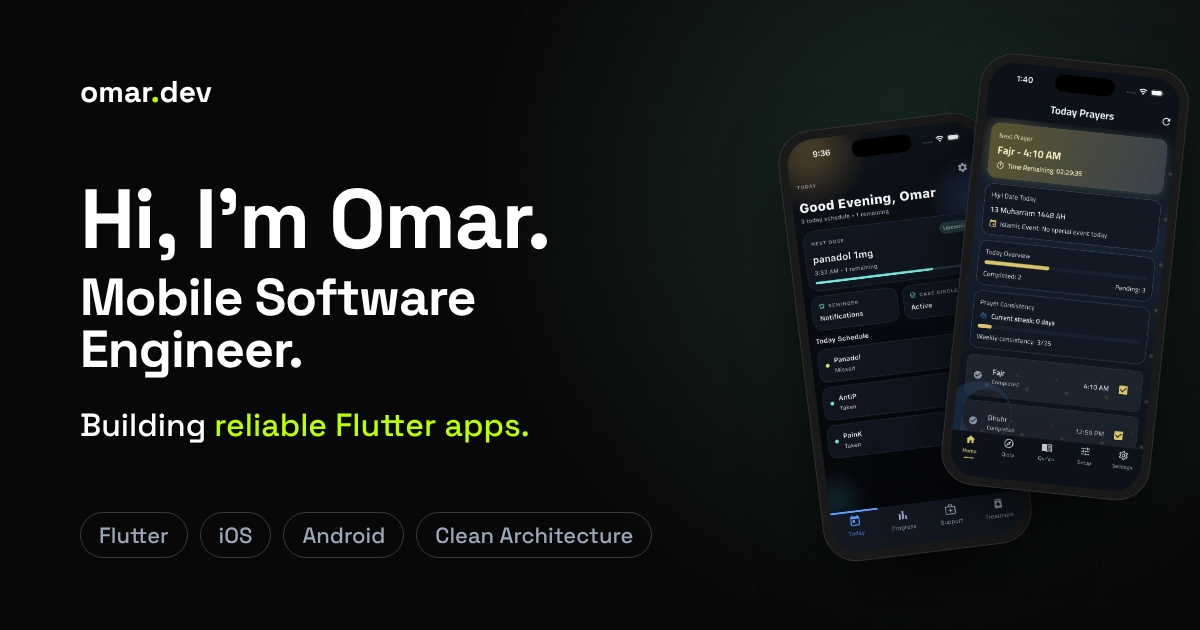
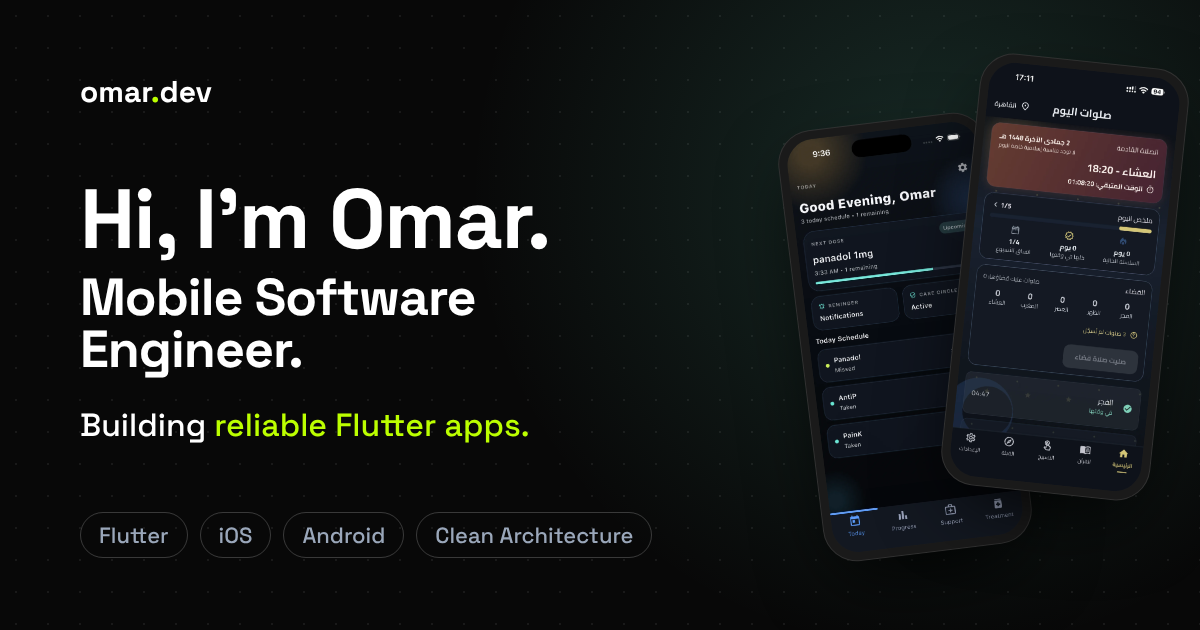
Muslim Assistant: new screenshots, Tasbih screen replaces Settings
Fresh light/dark screenshots of the current app (Home, Qibla, Quran,
Tasbih), renamed from salati_* to muslim_assistant_*. Settings is swapped
for Tasbih with a tap icon, subtitles describe what each screen now
shows, and the hero and share image use the new Home screen.

Claude-Session: https://claude.ai/code/session_01CkUq325ZFgYzPWVTuuyd6D

Changed region(s): [[0.8017, 0.1206, 0.9867, 0.5429], [0.8017, 0.4524, 0.9558, 0.754], [0.8017, 0.573, 0.8633, 0.6333]]

diff --git a/src/data/projects.ts b/src/data/projects.ts
@@ -117,7 +117,7 @@ const projectList: Project[] = [
     ],
     contributions: [
       "Engineered background-safe scheduling for prayer reminders.",
-      "Integrated Quran, Qibla, and settings into one cohesive flow.",
+      "Integrated Quran, Qibla, and tasbih into one cohesive flow.",
       "Shaped interaction model for calm and focused daily usage.",
     ],
     role: "Creator & Lead Flutter Developer",
@@ -139,31 +139,30 @@ const projectList: Project[] = [
         title: "Home",
         icon: "home",
         subtitle:
-          "Prayer overview, next prayer countdown, and reliable reminders.",
-        dark: "/images/salati_home_dark.webp",
-        light: "/images/salati_home_light.webp",
+          "Next prayer countdown, Hijri date, daily summary, and missed-prayer tracking.",
+        dark: "/images/muslim_assistant_home_dark.webp",
+        light: "/images/muslim_assistant_home_light.webp",
       },
       {
         title: "Qibla",
         icon: "compass",
-        subtitle: "Compass guidance designed for stable everyday use.",
-        dark: "/images/salati_compass_dark.webp",
-        light: "/images/salati_compass_light.webp",
+        subtitle: "Compass that confirms when you are facing the Kaaba.",
+        dark: "/images/muslim_assistant_qibla_dark.webp",
+        light: "/images/muslim_assistant_qibla_light.webp",
       },
       {
         title: "Quran",
         icon: "book",
-        subtitle: "Quick surah access with calm reading-focused navigation.",
-        dark: "/images/salati_quran.webp",
-        light: "/images/salati_quran_light.webp",
+        subtitle: "Search, every surah, and continue reading where you left off.",
+        dark: "/images/muslim_assistant_quran_dark.webp",
+        light: "/images/muslim_assistant_quran_light.webp",
       },
       {
-        title: "Settings",
-        icon: "settings",
-        subtitle:
-          "Language, notifications, and prayer preferences in one place.",
-        dark: "/images/salati_setting_dark.webp",
-        light: "/images/salati_setting_light.webp",
+        title: "Tasbih",
+        icon: "tap",
+        subtitle: "Tap anywhere to count, swipe to move between adhkar.",
+        dark: "/images/muslim_assistant_tasbih_dark.webp",
+        light: "/images/muslim_assistant_tasbih_light.webp",
       },
     ],
   },

diff --git a/src/components/icons.tsx b/src/components/icons.tsx
@@ -8,6 +8,7 @@ export type IconName =
   | "compass"
   | "book"
   | "settings"
+  | "tap"
   | "moon"
   | "sun";
 
@@ -51,6 +52,15 @@ const paths: Record<IconName, ReactElement> = {
     <>
       <circle cx="12" cy="12" r="3" />
       <path d="M19.4 15a1.7 1.7 0 0 0 .3 1.8l.1.1a2 2 0 1 1-2.8 2.8l-.1-.1a1.7 1.7 0 0 0-1.8-.3 1.7 1.7 0 0 0-1 1.5V21a2 2 0 1 1-4 0v-.1a1.7 1.7 0 0 0-1.1-1.5 1.7 1.7 0 0 0-1.8.3l-.1.1a2 2 0 1 1-2.8-2.8l.1-.1a1.7 1.7 0 0 0 .3-1.8 1.7 1.7 0 0 0-1.5-1H3a2 2 0 1 1 0-4h.1a1.7 1.7 0 0 0 1.5-1.1 1.7 1.7 0 0 0-.3-1.8l-.1-.1a2 2 0 1 1 2.8-2.8l.1.1a1.7 1.7 0 0 0 1.8.3H9a1.7 1.7 0 0 0 1-1.5V3a2 2 0 1 1 4 0v.1a1.7 1.7 0 0 0 1 1.5 1.7 1.7 0 0 0 1.8-.3l.1-.1a2 2 0 1 1 2.8 2.8l-.1.1a1.7 1.7 0 0 0-.3 1.8V9a1.7 1.7 0 0 0 1.5 1H21a2 2 0 1 1 0 4h-.1a1.7 1.7 0 0 0-1.5 1z" />
+    </>
+  ),
+  tap: (
+    <>
+      <path d="M22 14a8 8 0 0 1-8 8" />
+      <path d="M18 11v-1a2 2 0 0 0-4 0" />
+      <path d="M14 10V9a2 2 0 0 0-4 0v1" />
+      <path d="M10 9.5V4a2 2 0 0 0-4 0v10" />
+      <path d="M18 11a2 2 0 1 1 4 0v3a8 8 0 0 1-8 8h-2c-2.8 0-4.5-.86-6-2.34l-3.6-3.6a2 2 0 0 1 2.83-2.82L6 15" />
     </>
   ),
   moon: <path d="M20.5 14.5A8.5 8.5 0 1 1 9.5 3.5a7 7 0 0 0 11 11z" />,

diff --git a/src/components/hero.tsx b/src/components/hero.tsx
@@ -86,7 +86,7 @@ function HeroPhones() {
       </div>
       <div className="absolute right-0 top-0 w-[230px] rotate-[5deg] rounded-[2.2rem] border border-white/10 bg-elevated p-2 shadow-[0_30px_80px_-20px_rgba(0,0,0,0.9)]">
         <div className="relative aspect-[9/19.5] overflow-hidden rounded-[1.8rem]">
-          <Image src="/images/salati_home_dark.webp" alt="" fill sizes="230px" className="object-cover object-top" priority />
+          <Image src="/images/muslim_assistant_home_dark.webp" alt="" fill sizes="230px" className="object-cover object-top" priority />
         </div>
       </div>
     </div>
